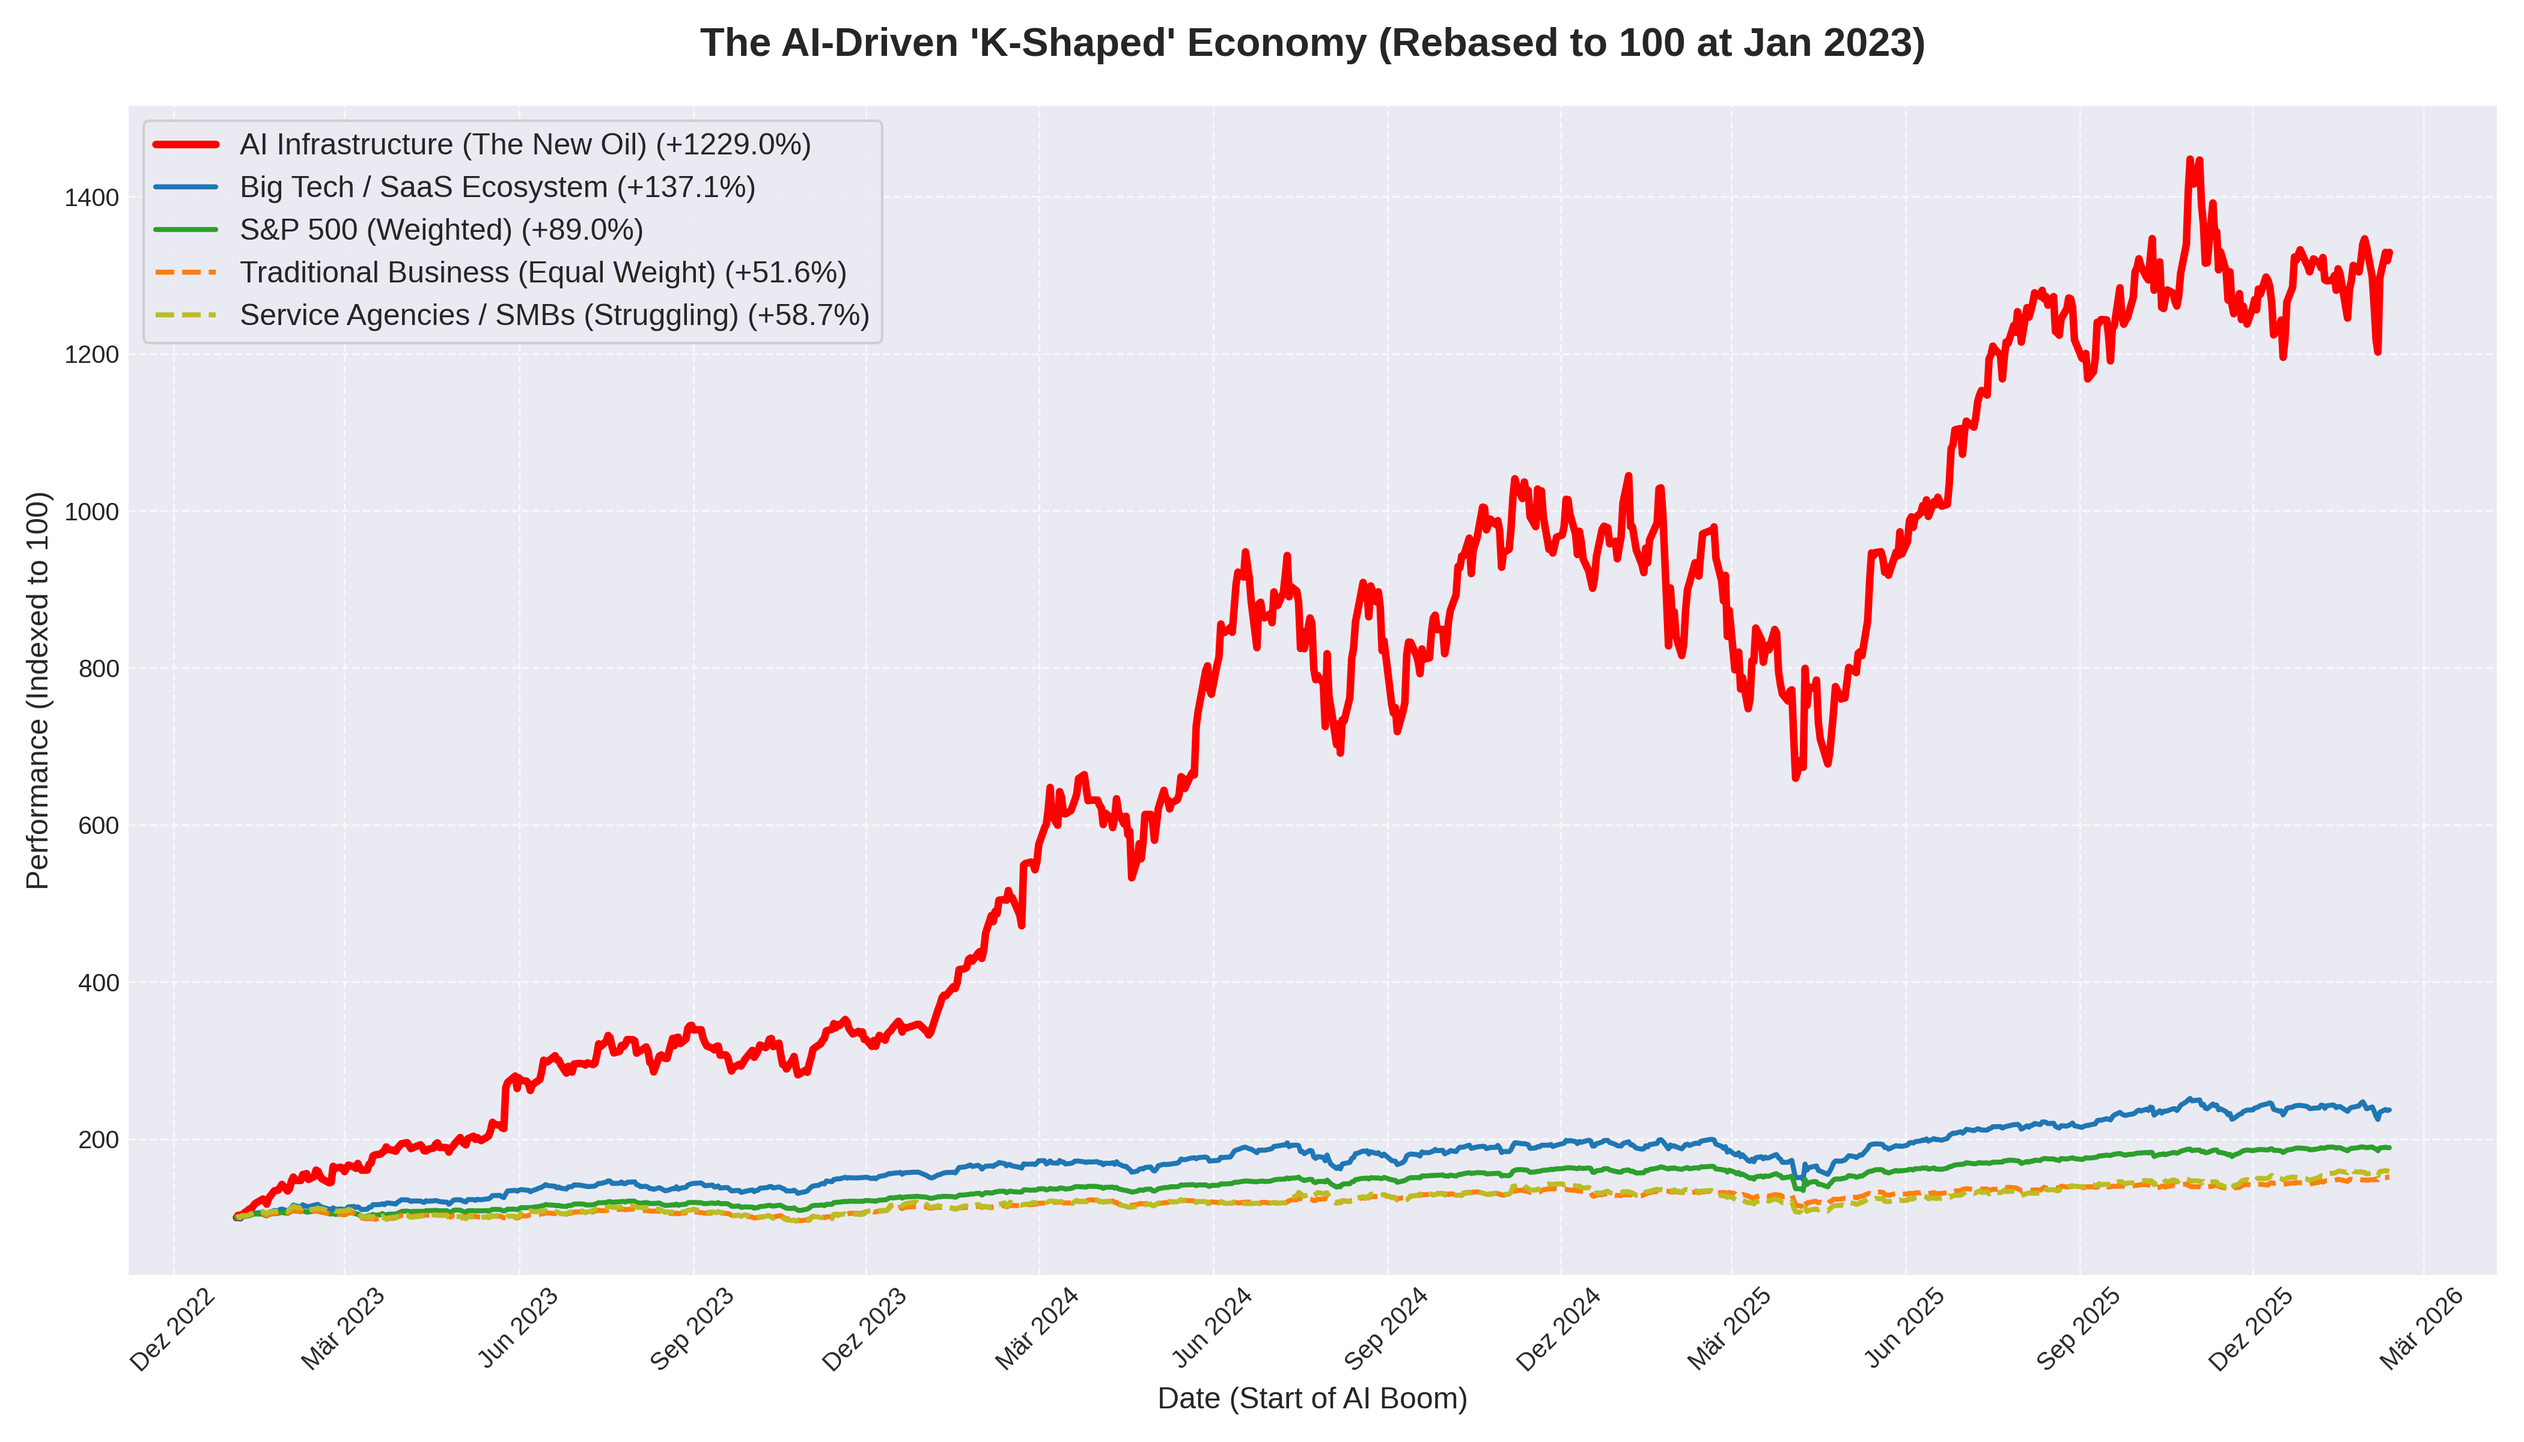
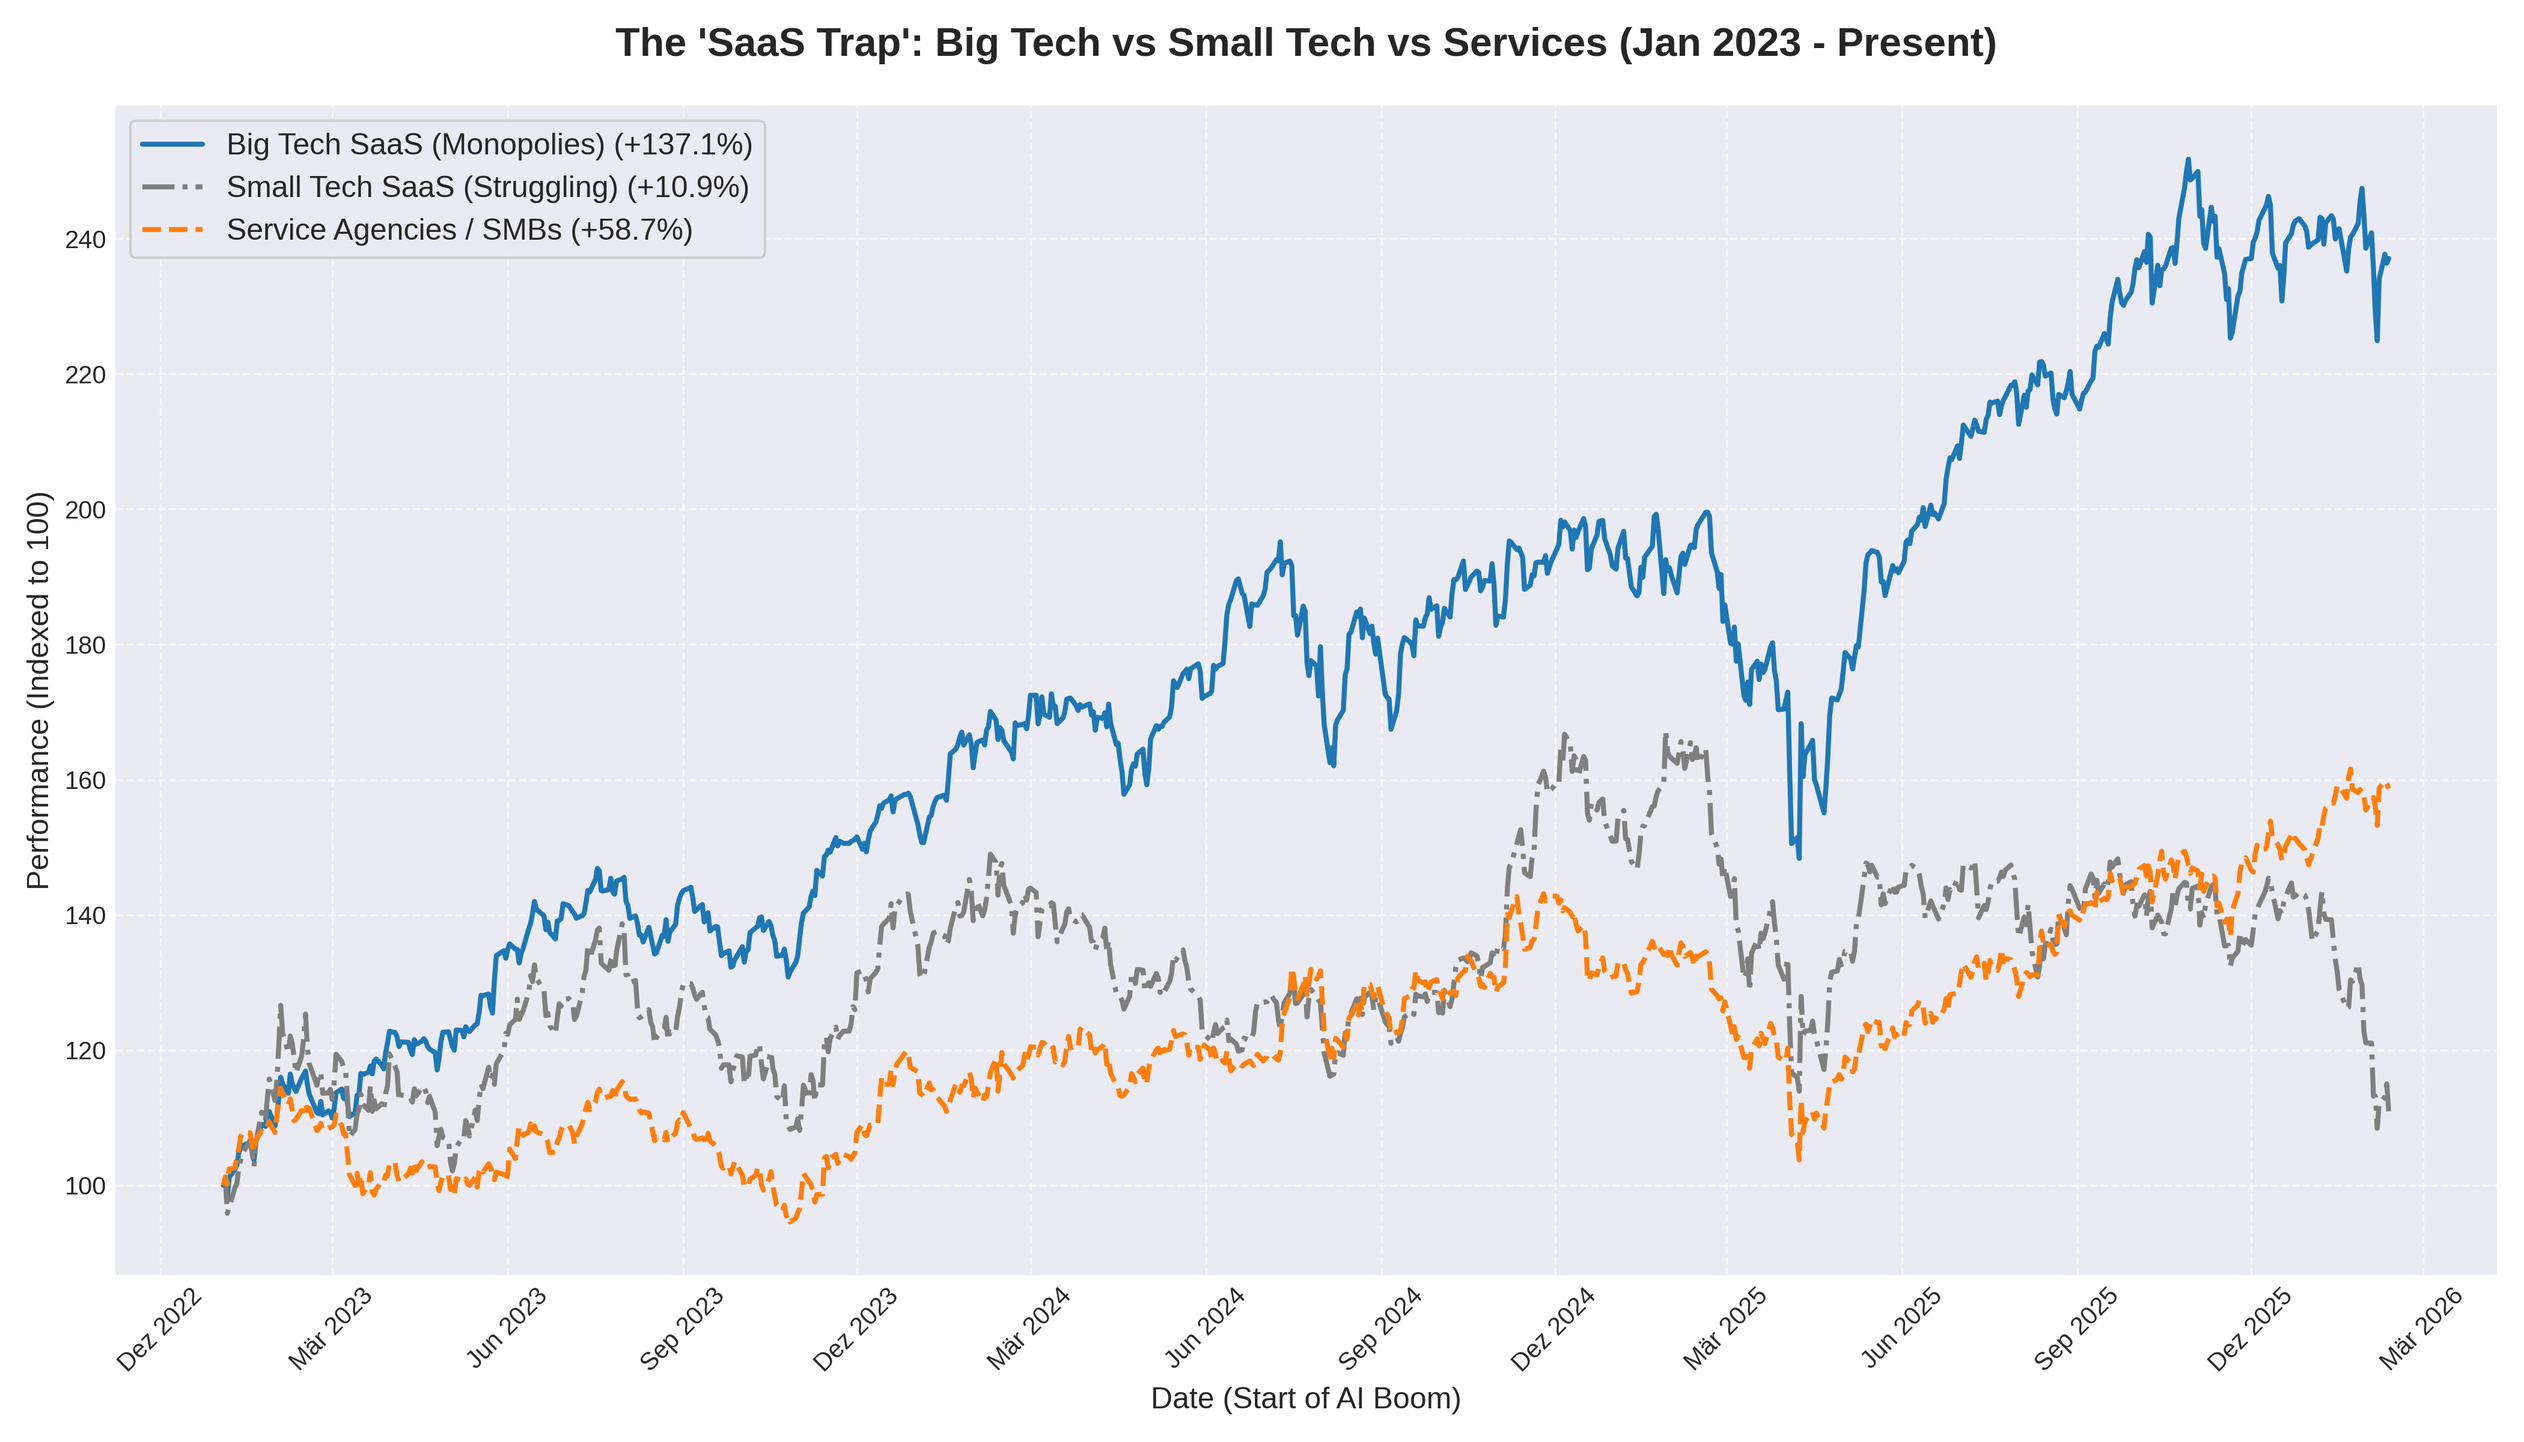
feat: Refine economic analysis in article and chart data to illustrate the "SaaS Trap" by comparing Big Tech SaaS, Small Tech SaaS, and Service Agency performance.

diff --git a/KShapedEconomy/generate_charts.py b/KShapedEconomy/generate_charts.py
@@ -6,11 +6,9 @@ import os
 
 # Tickers representing different segments of the economy
 tickers = {
-    'NVDA': 'AI Infrastructure (The New Oil)',
-    'XLK': 'Big Tech / SaaS Ecosystem',
-    'SPY': 'S&P 500 (Weighted)',
-    'RSP': 'Traditional Business (Equal Weight)',
-    'IWM': 'Service Agencies / SMBs (Struggling)'
+    'XLK': 'Big Tech SaaS (Monopolies)',
+    'WCLD': 'Small Tech SaaS (Struggling)',
+    'IWM': 'Service Agencies / SMBs'
 }
 
 # Start of the AI Boom
@@ -44,21 +42,15 @@ fig, ax = plt.subplots(figsize=(14, 8))
 
 # Define colors and line styles for clarity
 colors = {
-    'NVDA': '#ff0000', # Red for extreme outlier
-    'XLK': '#1f77b4',  # Blue for Tech
-    'SPY': '#2ca02c',  # Green for Market Benchmark
-    'RSP': '#ff7f0e',  # Orange for "Real Economy"
-    'IWM': '#bcbd22',  # Yellow/Green for Small Caps
-    'MCHI': '#7f7f7f'  # Grey for laggard
+    'XLK': '#1f77b4',  # Blue for Tech Monopolies
+    'WCLD': '#7f7f7f', # Grey for Small Tech (The Trap)
+    'IWM': '#ff7f0e'   # Orange for Service Agencies
 }
 
 styles = {
-    'NVDA': '-',
     'XLK': '-',
-    'SPY': '-',
-    'RSP': '--',
-    'IWM': '--',
-    'MCHI': ':'
+    'WCLD': '-.',
+    'IWM': '--'
 }
 
 for ticker, label in tickers.items():
@@ -66,10 +58,10 @@ for ticker, label in tickers.items():
             label=f"{label} (+{normalized_data[ticker].iloc[-1]-100:.1f}%)", 
             color=colors.get(ticker), 
             linestyle=styles.get(ticker),
-            linewidth=2 if ticker != 'NVDA' else 3) # Make NVDA stand out
+            linewidth=2)
 
 # Chart annotations and styling
-ax.set_title("The AI-Driven 'K-Shaped' Economy (Rebased to 100 at Jan 2023)", fontsize=16, fontweight='bold', pad=20)
+ax.set_title("The 'SaaS Trap': Big Tech vs Small Tech vs Services (Jan 2023 - Present)", fontsize=16, fontweight='bold', pad=20)
 ax.set_ylabel('Performance (Indexed to 100)', fontsize=12)
 ax.set_xlabel('Date (Start of AI Boom)', fontsize=12)
 
@@ -84,12 +76,7 @@ ax.legend(fontsize=12, loc='upper left', frameon=True, framealpha=0.9)
 # Add Grid
 ax.grid(True, linestyle='--', alpha=0.7)
 
-# Add Annotation for K-Shape Split
-last_date = normalized_data.index[-1]
-# Get y-values for annotation positioning
-y_nvda = normalized_data['NVDA'].iloc[-1]
-y_iwm = normalized_data['IWM'].iloc[-1]
-
+# Save
 output_dir = 'assets'
 if not os.path.exists(output_dir):
     os.makedirs(output_dir)
@@ -101,3 +88,8 @@ plt.tight_layout()
 save_path = os.path.join(output_dir, 'k_shaped_economy.png')
 plt.savefig(save_path, dpi=300)
 print(f"Chart saved to {save_path}")
+
+print("\nFinal Performance (Jan 2023 - Present):")
+for ticker in tickers:
+    perf = normalized_data[ticker].iloc[-1] - 100
+    print(f"{ticker}: {perf:+.1f}%")

diff --git a/KShapedEconomy/ARTICLE.md b/KShapedEconomy/ARTICLE.md
@@ -1,30 +1,25 @@
-# Project: The Agency Squeeze & The AI-Driven K-Shaped Economy
+# The SaaS Trap & The Economic Split: Why Even Software Won't Save You.
 
 ![The Agency Squeeze Chart](assets/k_shaped_economy.png)
 
-## LinkedIn Post Draft
+There is a massive misconception in the B2B market right now: **That "building software" is the escape hatch for agencies.**
 
-**Headline:** The "Agency Squeeze": Why Service Businesses Are Dying While SaaS Booms.
+The data tells a much more brutal story. We aren't just in a K-Shaped recovery; we are in a **"Platform Monopoly"** trap. 
 
-**Body:**
-
-There is a silent crisis happening in the B2B sector right now: **No one wants to spend on services, but everyone is buying software.
-We are witnessing the most aggressive "K-Shaped" economy in history, but it’s not just about rich vs. poor. It’s about **Scalable Tech vs. Human Labor.**
-
-Since the AI boom began in 2023, the market has bifurcated:
-1.  **The Automated Ecosystem:** Big Tech & SaaS (XLK +137%, NVDA +1228%) are capturing all the value.
-2.  **The Service Economy:** Agencies, consultants, and small businesses (IWM) are flatlining.
+Since 2023, the market has split into three distinct fates:
+1.  **The Monopolists (Big Tech SaaS):** The giants (XLK +137%) are capturing almost all the liquidity and data.
+2.  **The Squeezed (Service Agencies):** SMBs and agencies (IWM +58%) are struggling as acquisition costs rise and budgets freeze.
+3.  **The Trap (Small/Mid Tech SaaS):** Average cloud companies (WCLD +10%) are actually performing **worse** than traditional services.
 
 **Why is this happening?**
-B2B acquisition has become brutally hard because the value proposition of "we do it for you" is losing to "this AI does it for $50/mo."
+B2B acquisition has become brutally hard because the value proposition of "we do it for you" is losing to "this AI does it for $50/mo." 
 
-Companies are cutting service retainers to fund software subscriptions. They don't want to hire more people or outsource to more agencies; they want to build internal automated systems.
+But here comes the twist — even **Small SaaS** companies are being squeezed from both sides. They lack the distribution power of Big Tech (who simply copy successful features) and the high-touch relationships of agencies. 
 
-The chart below shows the reality: Capital is fleeing the "human-heavy" service sector and flooding into the "compute-heavy" automated sector.
+Meanwhile, agencies are being defunded by clients who hope SaaS will replace them — only for that capital to be absorbed by the Platform Monopolies.
 
-The lesson for agency owners and service providers?
-The middleman is being automated away. You can no longer just sell "hours" or "services." You must pivot to building **Automated Intellectual Property (AIP)** or productized outcomes.
+**The Lesson:**
+It’s no longer enough to just "have a SaaS" or "run an agency." 
+If you aren't building on top of a platform you own, or creating a niche so deep that AI can't map it, you are being liquidated by the giants.
 
-Adapt your model, or get squeezed out by the software you refused to build.
-
-#MacroEconomics #AgencyLife #SaaS #FutureOfWork #AI #BusinessStrategy
+The middle is disappearing. You either become a platform, or you become a commodity.
